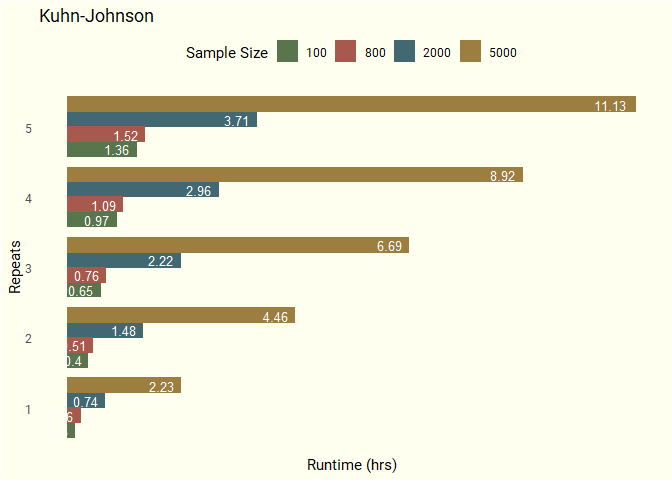
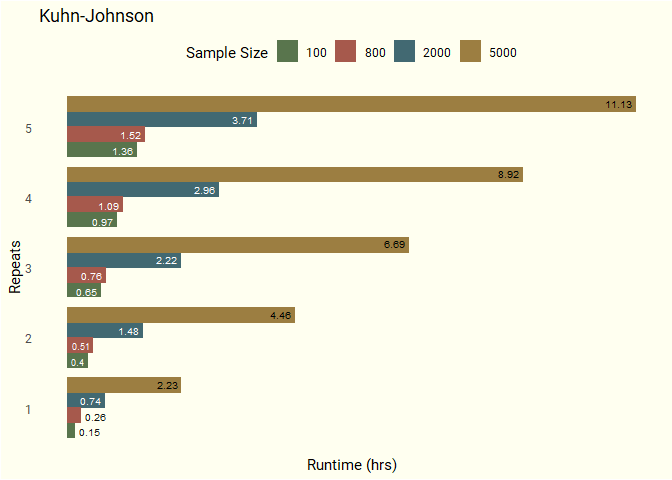
fixed runtime chart bar labels; added performance results csv; included results section in readme

diff --git a/README.md b/README.md
@@ -10,9 +10,9 @@ situations in which the size of our dataset is insufficient to
 simultaneously handle hyperparameter tuning and algorithm comparison.
 Examples of such situations include: proof of concept, start-ups,
 medical studies, time series, etc. Using standard methods such as k-fold
-cross-validation in these cases may result in significant increases in
-optimization bias. Nested cross-validation has been shown to produce low
-bias, out-of-sample error estimates even using datasets with only
+cross-validation in these cases may result in substantial increases in
+optimization bias. Nested cross-validation has been shown to produce
+less biased, out-of-sample error estimates even using datasets with only
 hundreds of rows and therefore gives a better judgement of
 generalization performance.
 
@@ -35,7 +35,7 @@ I’ll be examining two aspects of nested cross-validation:
 
 ## Duration Experiment
 
-Experiment details:
+##### Experiment details:
 
   - Random Forest and Elastic Net Regression algorithms  
   - Both with 100x2 hyperparameter grids  
@@ -63,16 +63,17 @@ These elements also affect the run times. Both methods will be using the
 same size grids, but Kuhn-Johnson uses repeats and more folds in the
 outer and inner loops while Raschka’s trains an extra model over the
 entire training set at the end at the end. Using Kuhn-Johnson, 50,000
-models will be trained for each algorithm — using Raschka’s, 1,001
-models.
+models (grid size \* number of repeats \* number of folds in the
+outer-loop \* number of folds/resamples in the inner-loop) will be
+trained for each algorithm — using Raschka’s, 1,001 models.
 
-MLFlow was used to keep track of the duration (seconds) of each run
-along with the implementation and method used. I’ve used implementation
-to describe the various changes in coding structures that accompanies
-using each package’s functions. A couple examples are the python
-for-loop being replaced with a while-loop and `iter_next` function when
-using {reticulate} and {mlr3} entirely using R’s R6 Object Oriented
-Programming system.
+[MLFlow](https://mlflow.org/docs/latest/index.html) was used to keep
+track of the duration (seconds) of each run along with the
+implementation and method used. I’ve used “implementation” to
+encapsulate not only the combinations of various model functions, but
+also, to describe the various changes in coding structures that
+accompanies using each package’s functions, i.e. I can’t just
+plug-and-play different packages’ model functions into the same script.
 
 ![](duration-experiment/outputs/0225-results.png)
 
@@ -82,9 +83,9 @@ Programming system.
 
 ## Performance Experiment
 
-Experiment details:
+##### Experiment details:
 
-  - The fastest implementation of each method will be used in running a
+  - The fastest implementation of each method was used in running a
     nested cross-validation with different sizes of data ranging from
     100 to 5000 observations and different numbers of repeats of the
     outer-loop cv strategy.
@@ -93,26 +94,41 @@ Experiment details:
         simplify, I’ll be using
         [Ranger-Kuhn-Johnson](https://github.com/ercbk/nested-cross-validation-comparison/blob/master/duration-experiment/kuhn-johnson/nested-cv-ranger-kj.R)
         for both methods.  
-  - The chosen algorithm and hyperparameters will be used to predict on
-    a 100K row simulated dataset.  
+  - The chosen algorithm and hyperparameters was used to predict on a
+    100K row simulated dataset.  
   - The percent error between the the average mean absolute error (MAE)
     across the outer-loop folds and the MAE of the predictions on this
-    100K dataset will be calculated for each combination of repeat, data
+    100K dataset was calculated for each combination of repeat, data
     size, and method.  
-  - To make this experiment manageable in terms of runtimes, I’m using
-    AWS instances: a r5.2xlarge for the Elastic Net and a r5.24xlarge
-    for Random Forest.  
+  - To make this experiment manageable in terms of runtimes, I used AWS
+    instances: a r5.2xlarge for the Elastic Net and a r5.24xlarge for
+    Random Forest.  
   - Iterating through different numbers of repeats, sample sizes, and
     methods makes a functional approach more appropriate than running
     imperative scripts. Also, given the long runtimes and impermanent
     nature of my internet connection, it would also be nice to cache
     each iteration as it finishes. The
     [{drake}](https://github.com/ropensci/drake) package is superb on
-    both counts, so I’m using it to orchestrate.
+    both counts, so I’m used it to orchestrate.
 
 ![](README_files/figure-gfm/perf_bt_charts-1.png)<!-- -->
 
 ![](README_files/figure-gfm/perf-error-line-1.png)<!-- -->
+
+##### Results:
+
+Kuhn-Johnson:
+
+  - Runtimes for n = 100 and n = 800 are close, and there’s a large jump
+    in runtime going from n = 2000 to n = 5000.  
+  - The number of repeats had little effect on the amount of percent
+    error.
+  - For n = 100, there is substantially more variation in percent error
+    than in the other sample sizes.  
+  - While there is a large runtime cost that comes with increasing the
+    sample size from 2000 to 5000 obsservations, it doesn’t seem to
+    provide any benefit in gaining a more accurate estimate of the
+    out-of-sample error.
 
 References
 
